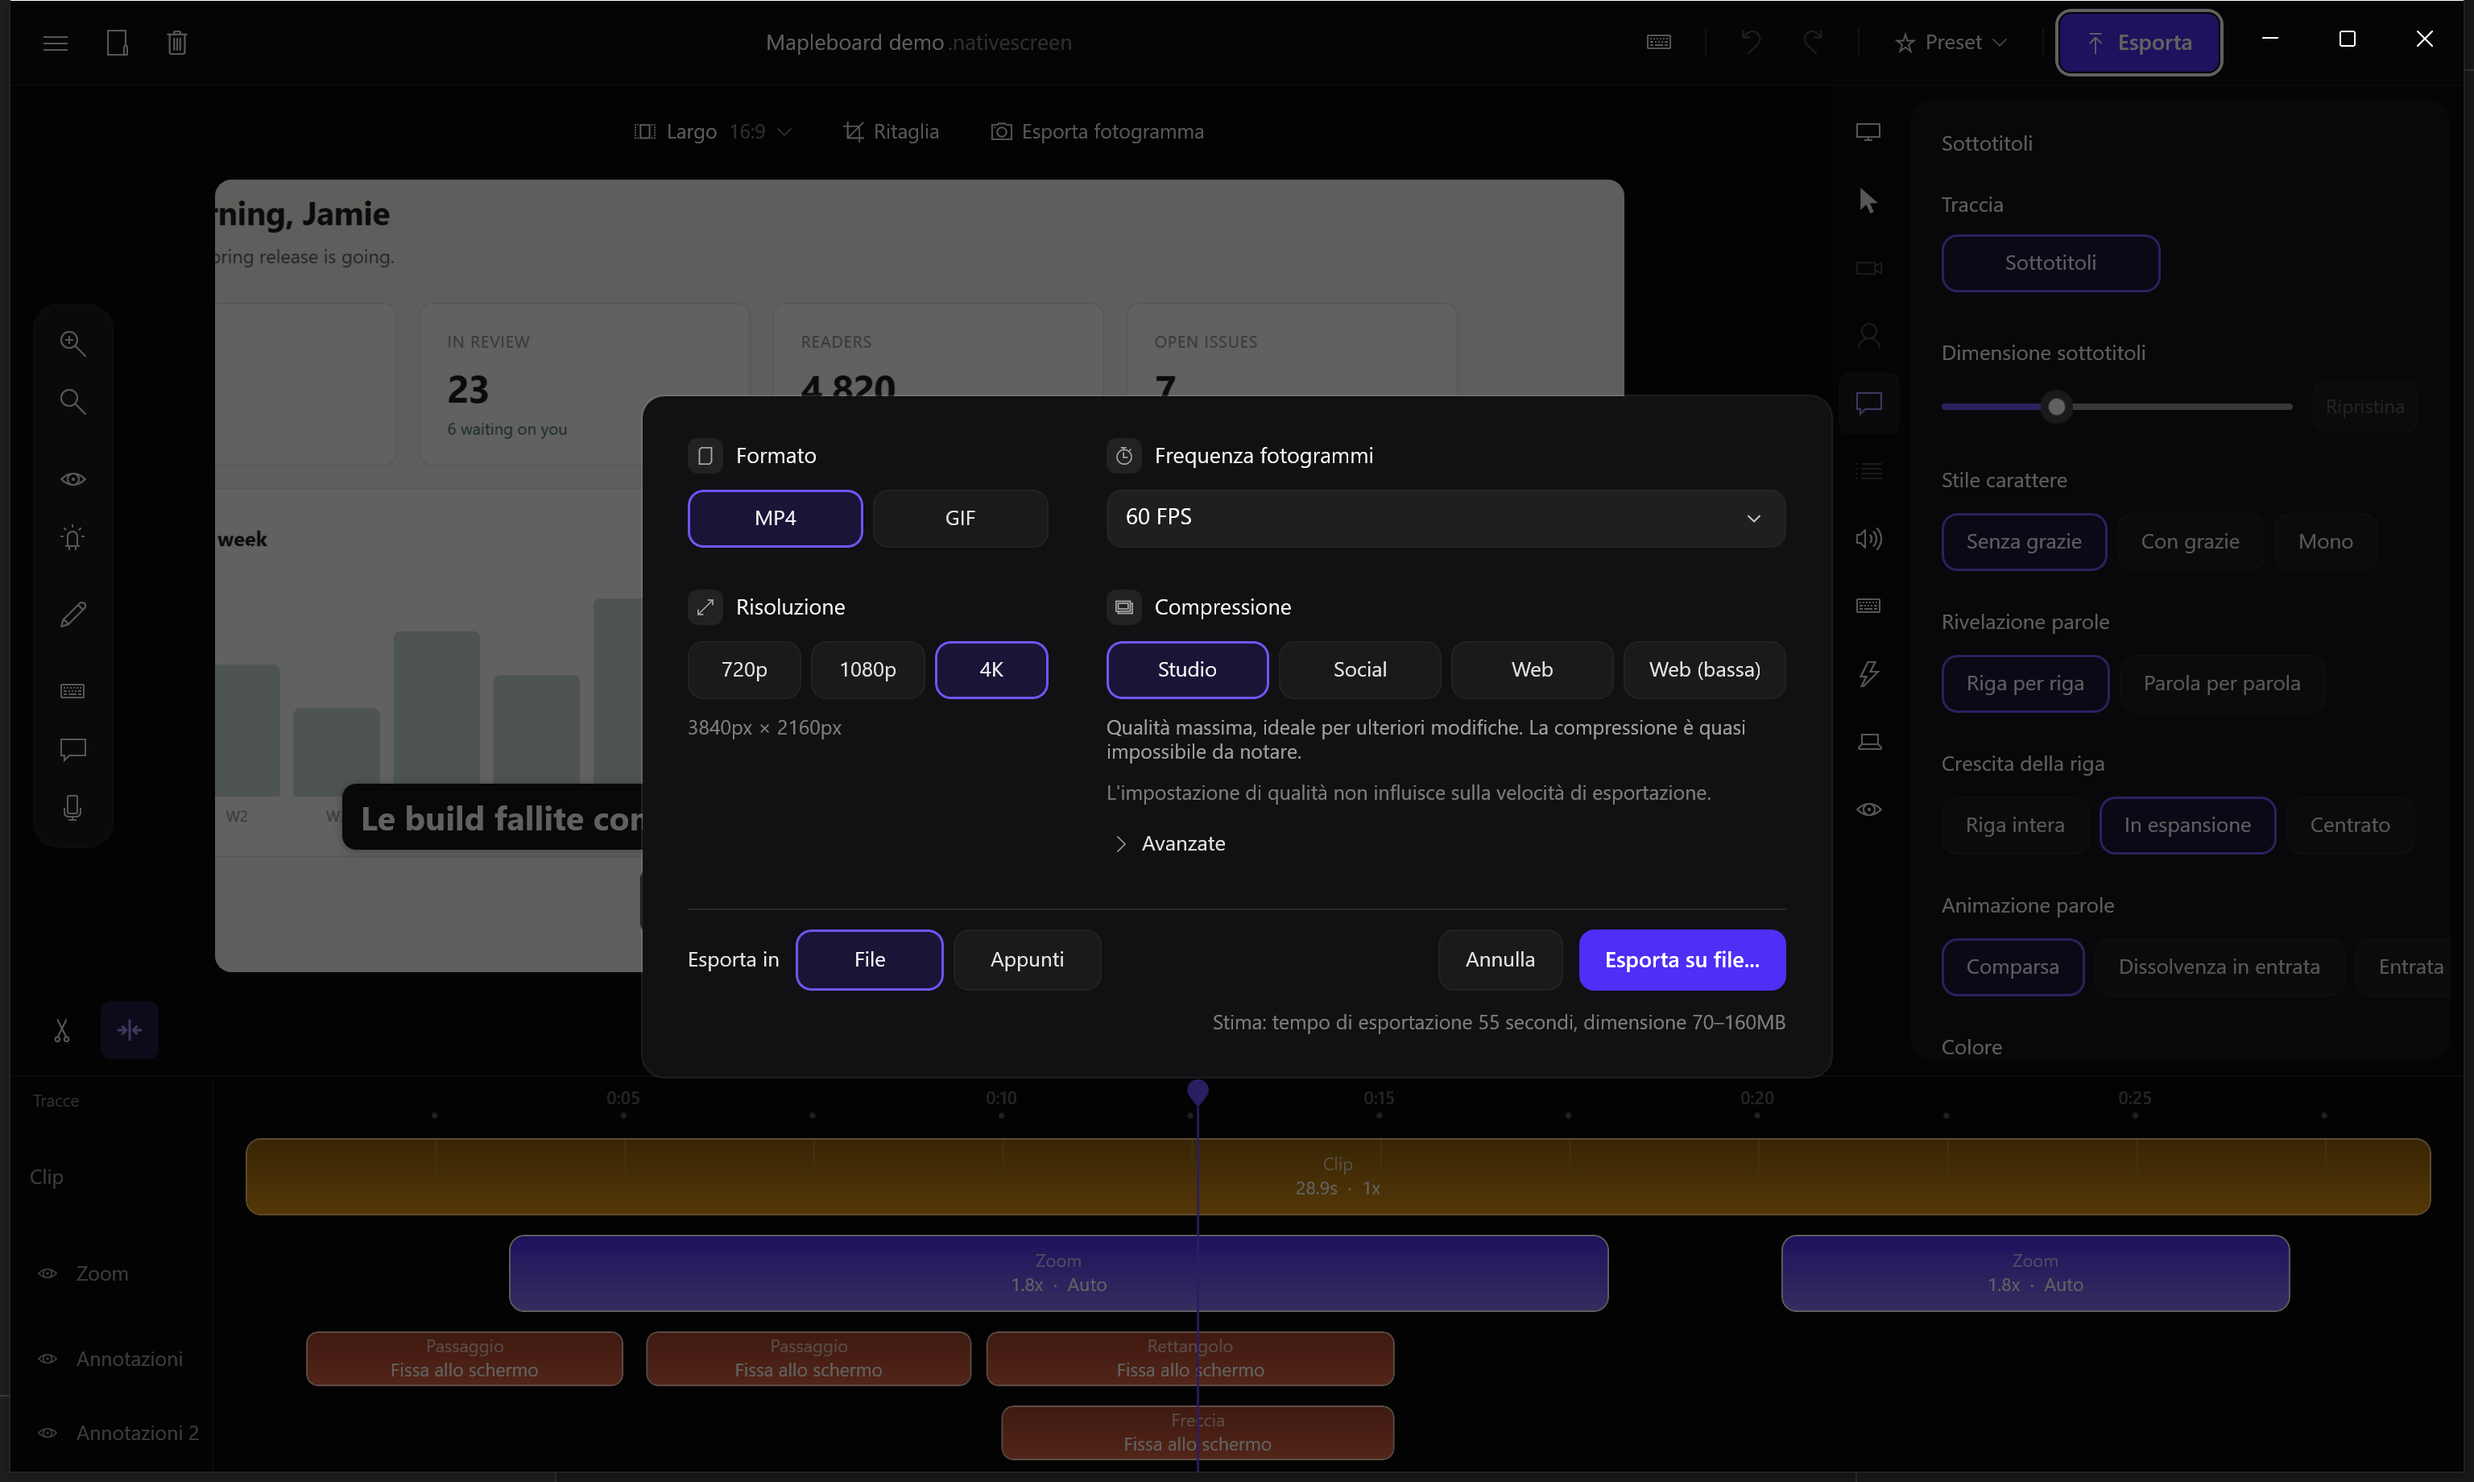
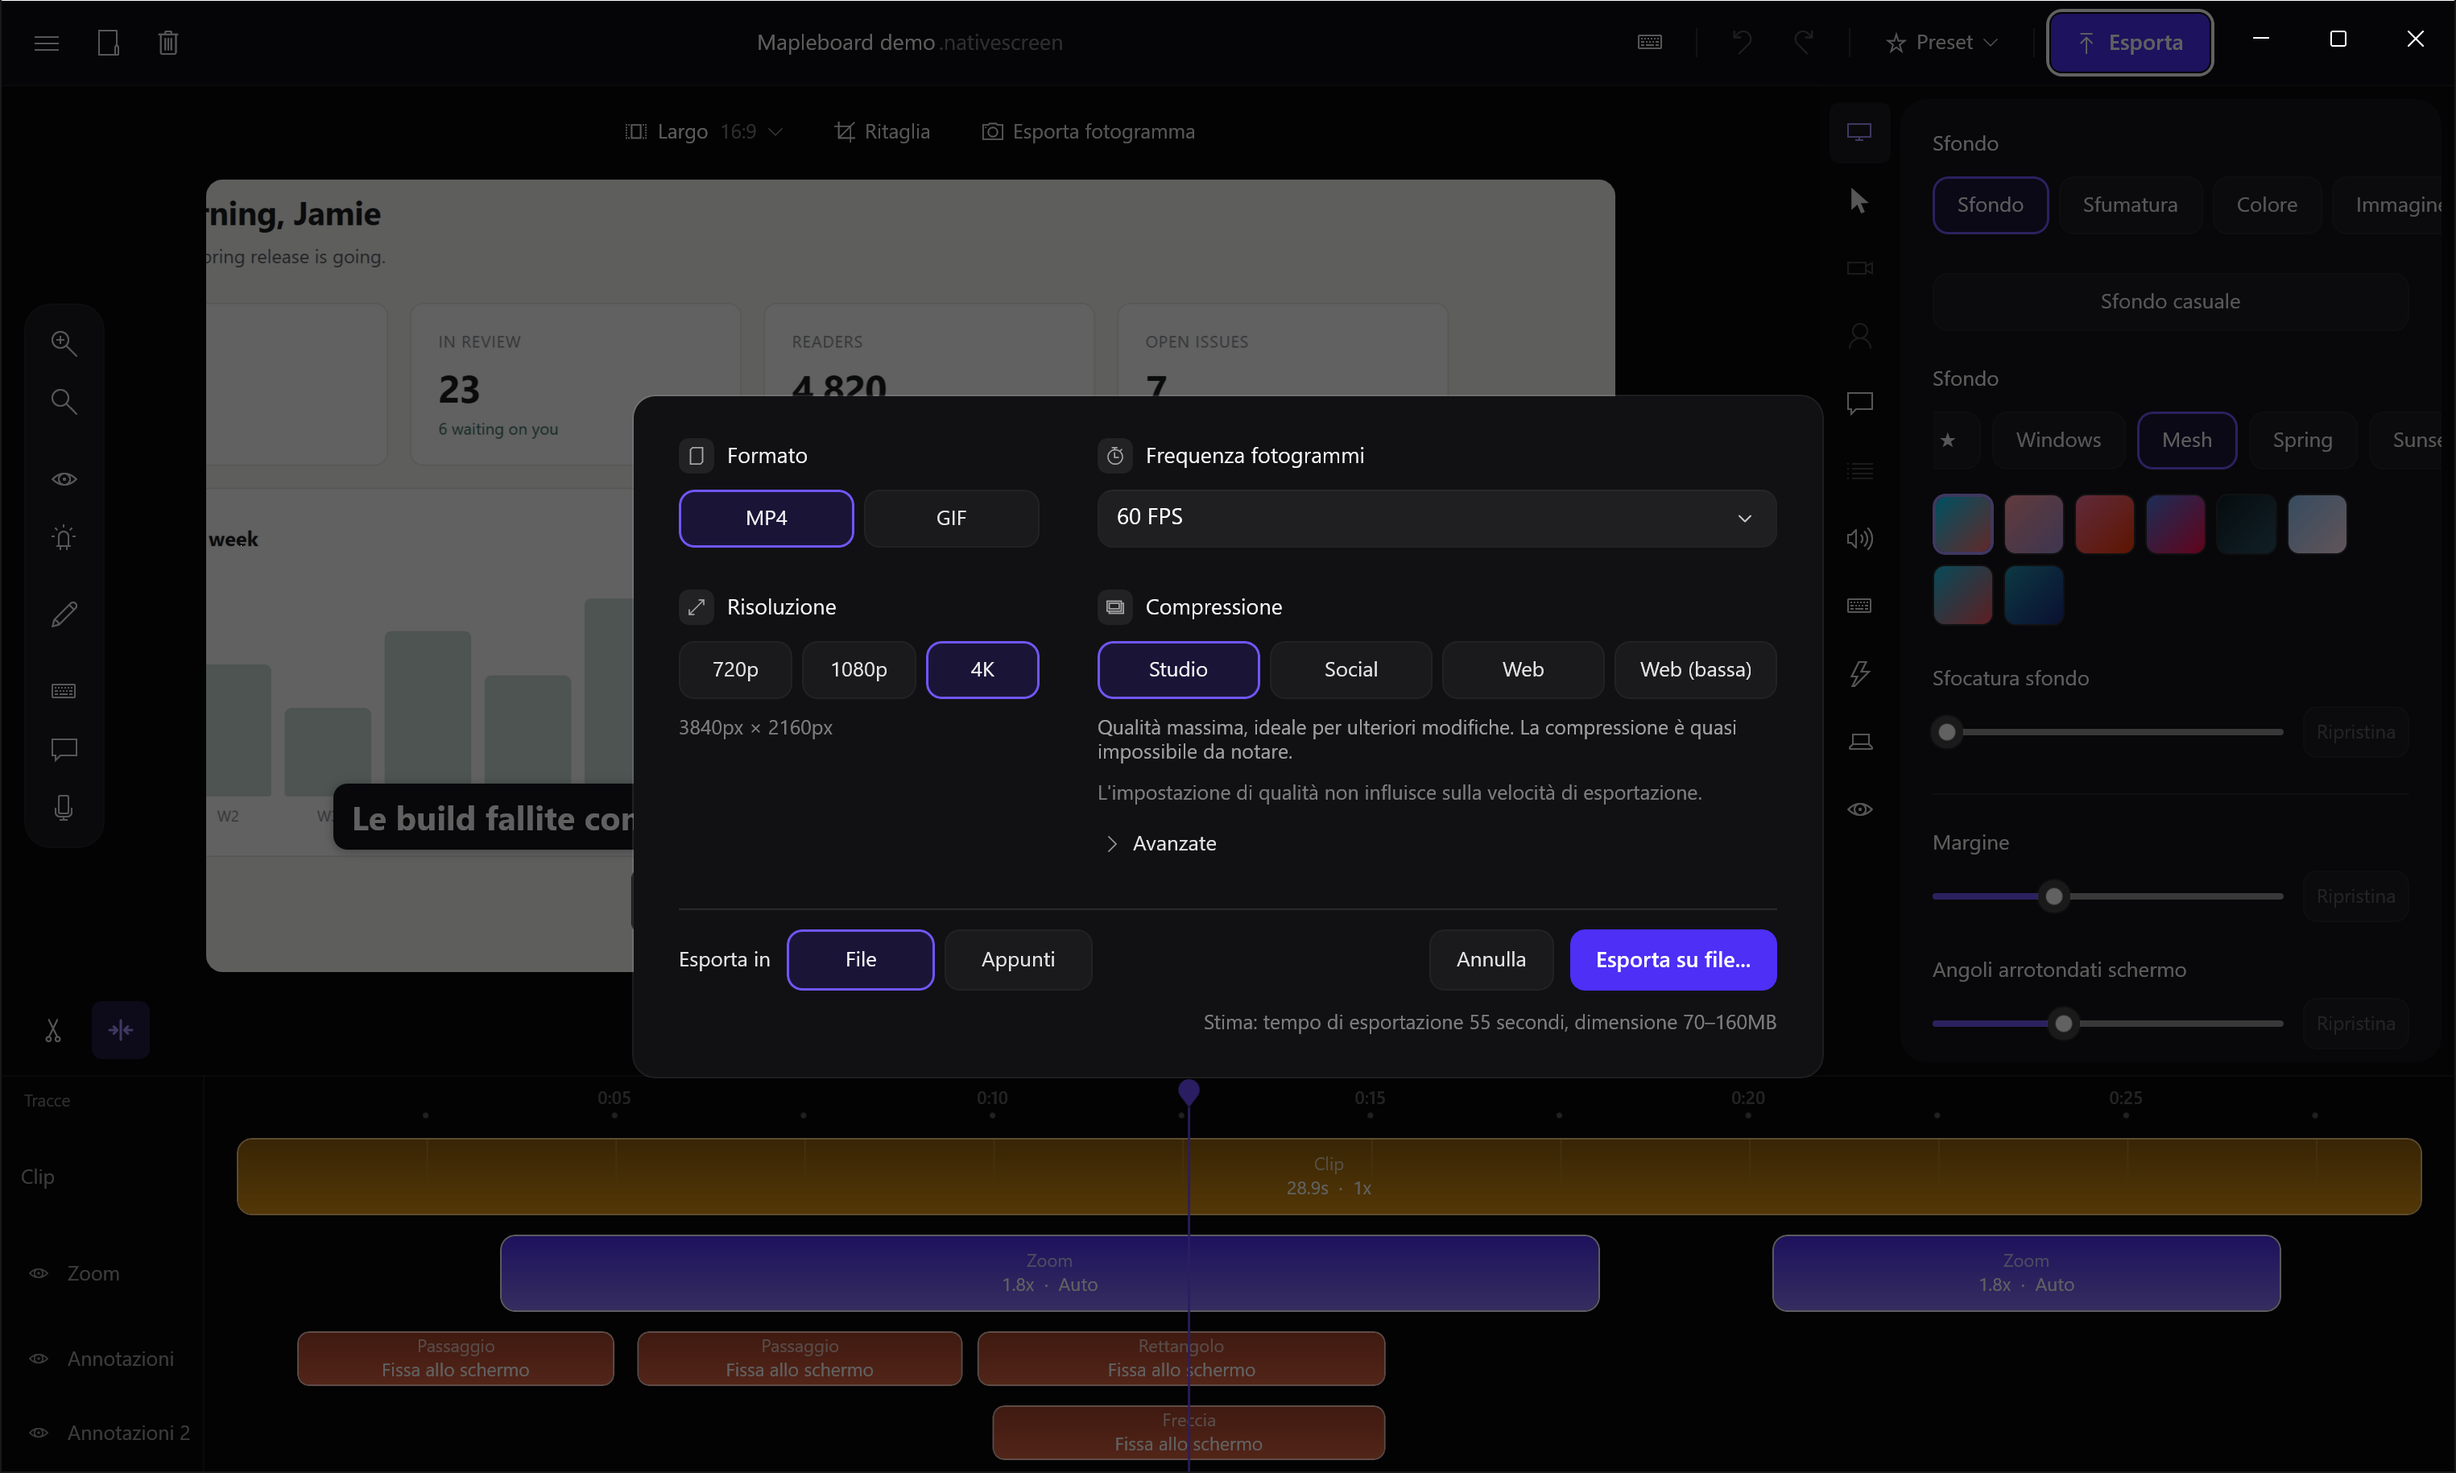
docs(win): new Store screenshots for 15 languages
The first screenshot showed a desktop notification: shots copied the
screen. They now come from the editor window's own pixels (PrintWindow),
so nothing on top of the window can end up in them.

Four shots per language, each showing something different:
1. a selected annotation (dark theme),
2. a camera-only recording with an AI background and a sticker,
3. the light theme,
4. the Export panel.

Captions under the shot time now show their whole text. Words get time
in proportion to their length, so longer languages had not revealed
their last word yet. Arabic captions are typed in reverse word order,
because captions lay words out left to right on both apps (a known bug,
being fixed separately).

listing.csv points at the new files, with captions from the website.

diff --git a/docs/releasing.md b/docs/releasing.md
@@ -106,8 +106,14 @@ The Store page text and images for all 15 UI languages are in `windows/store-lis
 3. How it was made: the text comes from the website copy in `site/src/i18n/<language>.ts` (`lede`, the feature headings
    and paragraphs, `desc` as the short description), plus 7 search terms per language. The screenshots are a recording of
    `tools/demo-page` (made-up data) opened in an app window without an address bar, styled with zooms, captions and
-   annotations, then opened with `NS_LANGUAGE=<id>` for each language with the caption and annotation text translated.
-   The editor, Captions, a selected annotation and the Export panel are captured at 12.6 s.
+   annotations, then opened with `NS_LANGUAGE=<id>` for each language with the caption and annotation text translated:
+   a selected annotation (12.6 s) and the Export panel in the dark theme, and the Background tab in the light theme
+   (9 s). The second shot is a camera-only recording with an AI background and a sticker, on the Camera Style tab.
+   Each shot is the editor window's own pixels (`PrintWindow`), not a copy of the screen, so a notification on screen
+   cannot end up in it. A caption block under the shot time is moved so its whole text shows: words get time in
+   proportion to their length, so longer languages reveal their last word later. Arabic captions are typed in reverse
+   word order for these shots, because both apps lay a caption's words out left to right (a known bug), and in the
+   right order the Arabic would read backwards.
 
 **Restricted capabilities** asks why the app needs runFullTrust, in at most 500 characters:
 

diff --git a/windows/store-listing/README.md b/windows/store-listing/README.md
@@ -1,8 +1,8 @@
 # Microsoft Store listing
 
 What Partner Center shows on the Store page, for the 15 UI languages: `listing.csv` (text, screenshot captions, search
-terms and the paths of the images), `screenshots/<language>/` (4 PNGs per language, 3072 × 1840, taken from the Windows
-app running in that language) and `logos/` (9:16 poster 1440 × 2160 and 1:1 box art 2160 × 2160, shared by every
+terms and the paths of the images), `screenshots/<language>/` (4 PNGs per language, 3050 × 1829, taken from the Windows
+app running in that language: an annotation, the camera with a new background and a sticker, the light theme, Export) and `logos/` (9:16 poster 1440 × 2160 and 1:1 box art 2160 × 2160, shared by every
 language). See `docs/releasing.md`, "Store listing", for how to import it and how it was made.
 
 **Every image path in `listing.csv` starts with the folder name, `store-listing/`.** Partner Center's **Upload folder**
